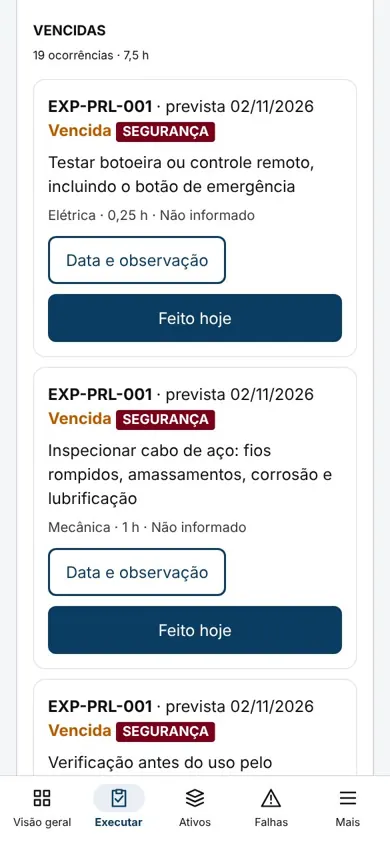
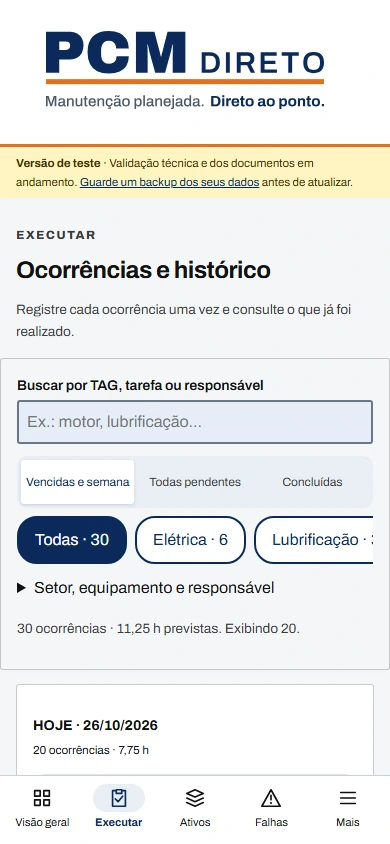
Atualizar imagens públicas e compartilhamento com a marca oficial

diff --git a/public/conheca.html b/public/conheca.html
@@ -14,10 +14,10 @@
   <meta property="og:title" content="PCM Direto · Manutenção planejada. Direto ao ponto." />
   <meta property="og:description" content="Plano preventivo, cronograma, execuções, falhas e documentos PCMD. Gratuito, código aberto e com os dados só no seu aparelho." />
   <meta property="og:url" content="https://pcmdireto.me/conheca.html" />
-  <meta property="og:image" content="https://pcmdireto.me/apresentacao/compartilhar.jpg" />
-  <meta property="og:image:width" content="1280" />
-  <meta property="og:image:height" content="640" />
-  <meta property="og:image:alt" content="Logo do PCM Direto, slogan e a tela Executar no celular com dados fictícios" />
+  <meta property="og:image" content="https://pcmdireto.me/apresentacao/compartilhar.jpg?v=20261026" />
+  <meta property="og:image:width" content="1200" />
+  <meta property="og:image:height" content="630" />
+  <meta property="og:image:alt" content="Assinatura oficial do PCM Direto com slogan e apresentação das funções do aplicativo" />
   <meta name="twitter:card" content="summary_large_image" />
   <link rel="stylesheet" href="./fontes/fontes.css">
   <style>

diff --git a/index.html b/index.html
@@ -10,7 +10,7 @@
     <meta property="og:locale" content="pt_BR" />
     <meta property="og:title" content="PCM Direto · Manutenção planejada. Direto ao ponto." />
     <meta property="og:description" content="Plano preventivo, cronograma, execuções, falhas e documentos PCMD. Gratuito, código aberto e com os dados só no seu aparelho." />
-    <meta property="og:image" content="https://pcmdireto.me/apresentacao/compartilhar.jpg" />
+    <meta property="og:image" content="https://pcmdireto.me/apresentacao/compartilhar.jpg?v=20261026" />
     <link rel="manifest" href="./manifest.webmanifest" />
     <link rel="icon" href="./icones/favicon.svg" type="image/svg+xml" />
     <link rel="apple-touch-icon" href="./icones/apple-touch-icon.png" />

diff --git a/docs/FILA.md b/docs/FILA.md
@@ -270,3 +270,8 @@ Verificação local inicial: npm ci sem vulnerabilidades; lint, 239 testes e bui
 ### Assinatura oficial do modelo — 26/10/2026
 
 Correção solicitada pelo mantenedor: cabeçalho usa o SVG oficial horizontal com barra laranja e slogan incorporado, sem reconstrução em HTML. Página de apresentação e endpoints de logo alinhados. Fichas PDF públicas usam a imagem original extraída do modelo Excel e fontes Archivo locais. Modelos Office recebidos preservados. Contraste dos passos da apresentação corrigido. A publicação anterior foi autorizada; esta correção segue pelo mesmo fluxo de PR e CI.
+
+
+### Revisão das imagens públicas da marca — 26/10/2026
+
+Atualizadas a imagem social e as quatro capturas da página de apresentação. Assinatura oficial incorporada, fontes locais e capturas reais da demonstração isolada, apenas com dados fictícios. Metadados sociais ajustados para 1200×630 e endereço versionado para renovação da imagem compartilhada. Nenhuma mudança funcional ou nos dados de usuários.

diff --git a/docs/MELHORIAS.md b/docs/MELHORIAS.md
@@ -105,3 +105,8 @@ Verificação local inicial: npm ci sem vulnerabilidades; lint, 239 testes e bui
 ### Assinatura oficial do modelo — 26/10/2026
 
 Correção solicitada pelo mantenedor: cabeçalho usa o SVG oficial horizontal com barra laranja e slogan incorporado, sem reconstrução em HTML. Página de apresentação e endpoints de logo alinhados. Fichas PDF públicas usam a imagem original extraída do modelo Excel e fontes Archivo locais. Modelos Office recebidos preservados. Contraste dos passos da apresentação corrigido. A publicação anterior foi autorizada; esta correção segue pelo mesmo fluxo de PR e CI.
+
+
+### Revisão das imagens públicas da marca — 26/10/2026
+
+Atualizadas a imagem social e as quatro capturas da página de apresentação. Assinatura oficial incorporada, fontes locais e capturas reais da demonstração isolada, apenas com dados fictícios. Metadados sociais ajustados para 1200×630 e endereço versionado para renovação da imagem compartilhada. Nenhuma mudança funcional ou nos dados de usuários.
